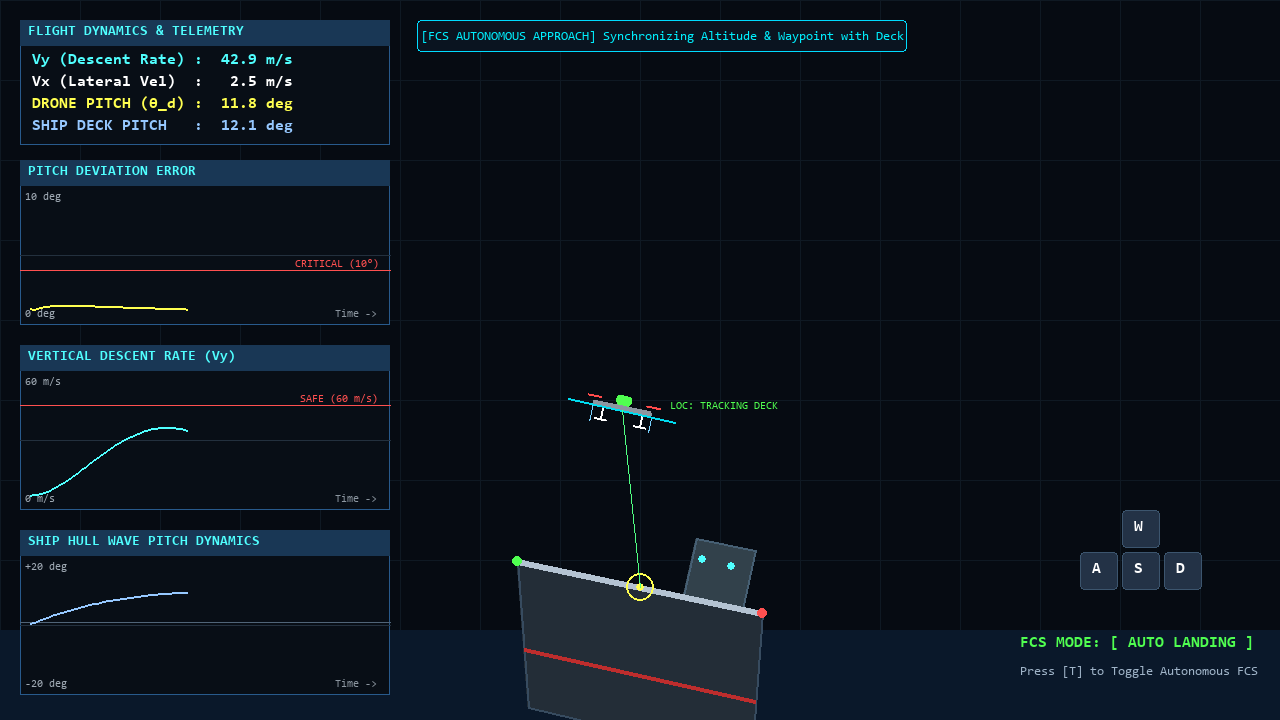
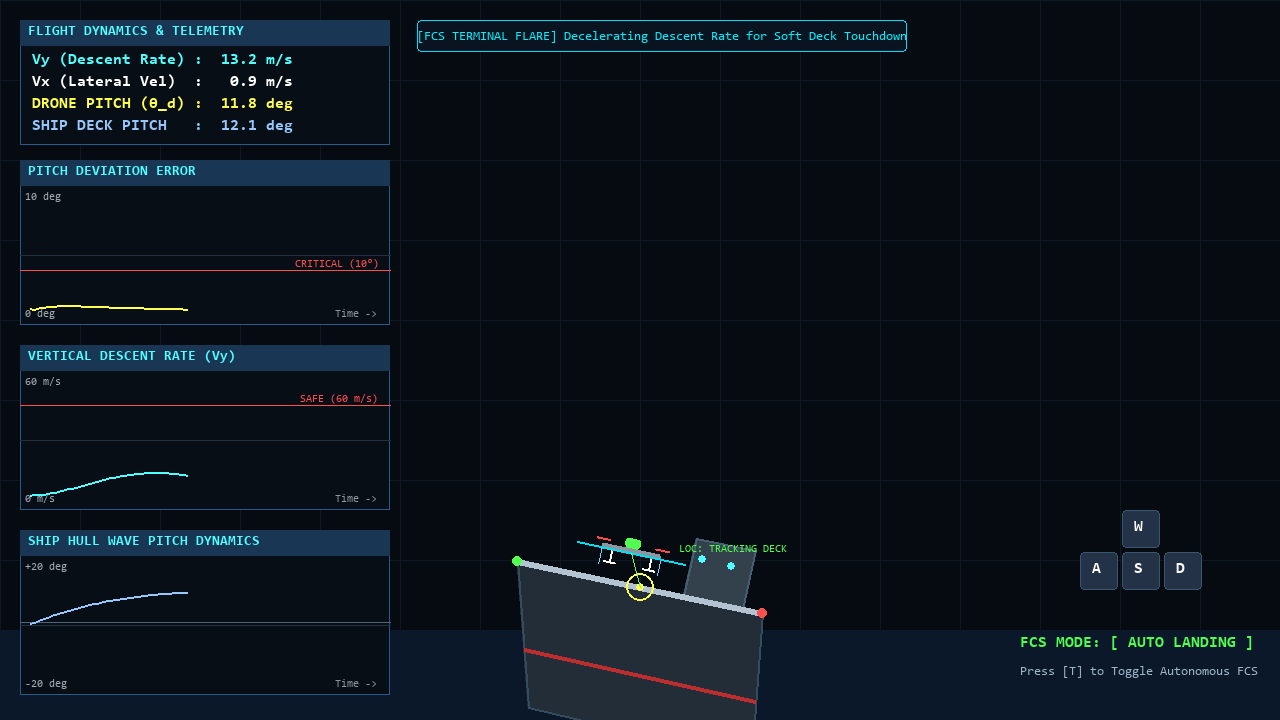
feat: adjust autonomous landing descent speed and entry altitude to realistic calm flight corridor

diff --git a/generate_assets.py b/generate_assets.py
@@ -468,15 +468,15 @@ def main():
     ship = ShipMotion()
     evtol = eVTOLController()
     evtol.is_auto = True
-    evtol.x = 590
-    evtol.y = 120
+    evtol.x = 610
+    evtol.y = 485
     evtol.vx = 0.0
     evtol.vy = 0.0
     history_ship_pitch = []
     frames_auto = []
     
     total_auto_steps = 110
-    touchdown_step = 78
+    touchdown_step = 72
     for step in range(total_auto_steps):
         t = step * 0.0333
         # Natural maritime wave dynamics harmonized with swell period
@@ -499,6 +499,7 @@ def main():
         history_ship_pitch.append(ship_pitch)
         if len(history_ship_pitch) > 100: history_ship_pitch.pop(0)
         
+        approach_hover_y = y_center - 85
         target_deck_y = y_center - 15
         if step < touchdown_step:
             u = step / float(touchdown_step)
@@ -506,18 +507,18 @@ def main():
             s = 6.0 * (u ** 5) - 15.0 * (u ** 4) + 10.0 * (u ** 3)
             ds_du = 30.0 * (u ** 4) - 60.0 * (u ** 3) + 30.0 * (u ** 2)
             
-            evtol.x = 590.0 + (x_center - 590.0) * s
-            evtol.y = 120.0 + (target_deck_y - 120.0) * s
+            evtol.x = (x_center - 30.0) + 30.0 * s
+            evtol.y = approach_hover_y + (target_deck_y - approach_hover_y) * s
             
-            # Smooth descent speed curve peaking mid-flight and decelerating gently to 0 at deck
-            evtol.vy = 24.0 * ds_du
-            evtol.vx = 6.0 * (1.0 - u)
-            evtol.angle += (ship_pitch - evtol.angle) * 0.20
+            # Gentle, safe descent speed curve peaking calmly at ~15 m/s and flaring to 0 m/s at touchdown
+            evtol.vy = 8.0 * ds_du
+            evtol.vx = 2.5 * (1.0 - u)
+            evtol.angle += (ship_pitch - evtol.angle) * 0.22
             
             msg = ""
             msg_color = WHITE
             timer = 0
-            if u < 0.65:
+            if u < 0.60:
                 banner = "[FCS AUTONOMOUS APPROACH] Synchronizing Altitude & Waypoint with Deck"
             else:
                 banner = "[FCS TERMINAL FLARE] Decelerating Descent Rate for Soft Deck Touchdown"
@@ -637,7 +638,7 @@ def main():
             msg_color = WHITE
             timer = 0
         else:
-            evtol.y = ship_center[1] - 25
+            evtol.y = ship_center[1] - 15
             evtol.vy = 0.0
             evtol.angle = ship_pitch
             msg = "LANDING SUCCESS: SAFE TOUCHDOWN"
